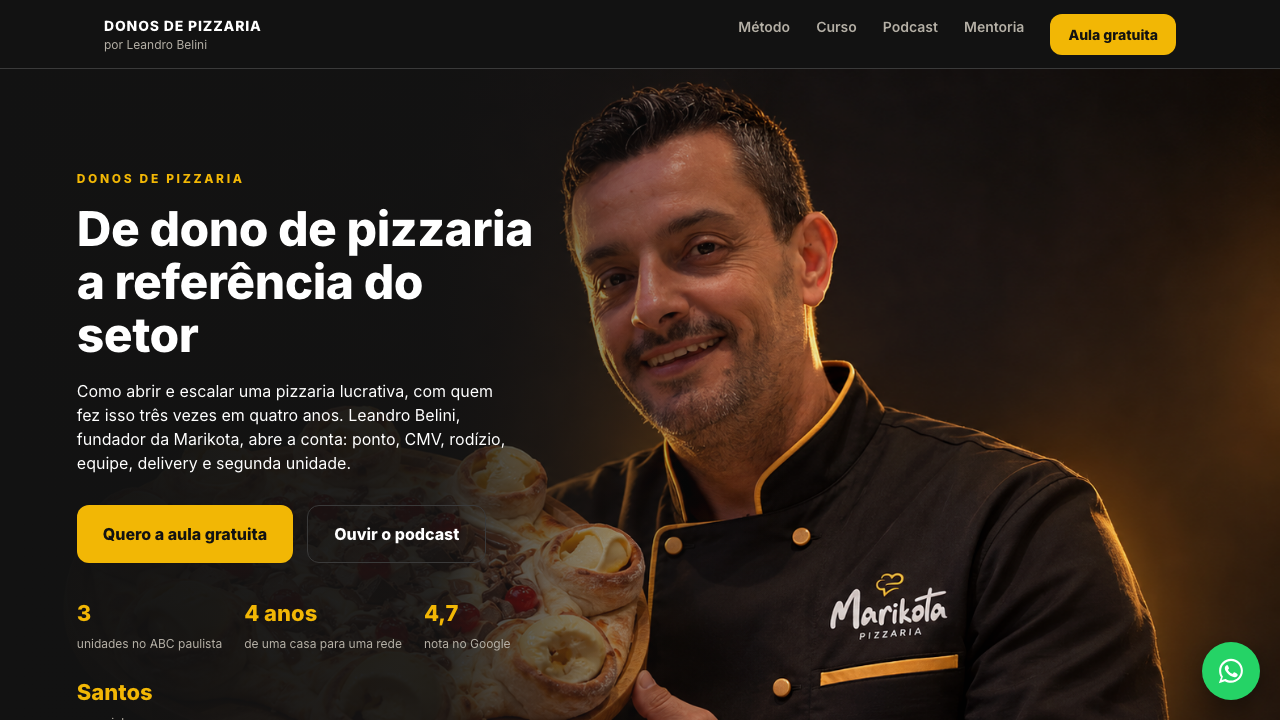
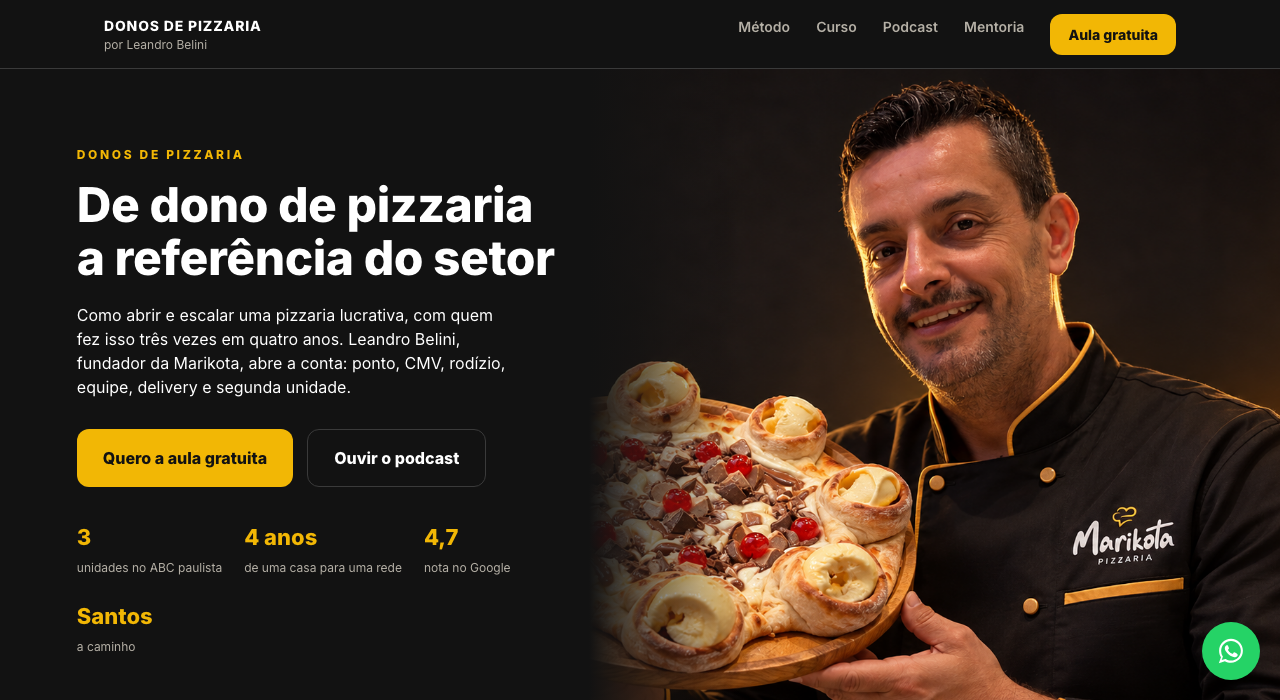
Hero em duas colunas: texto à esquerda, foto à direita sem sobreposição

diff --git a/index.html b/index.html
@@ -48,18 +48,25 @@
   @media(max-width:860px){nav ul{display:none}}
 
   /* hero */
-  .hero{position:relative;overflow:hidden;padding:0;min-height:600px;display:flex;align-items:center}
-  .hero img.bg{position:absolute;right:0;top:0;height:100%;width:auto;max-width:none;opacity:.95}
-  .hero::after{content:"";position:absolute;inset:0;background:linear-gradient(90deg,rgba(18,18,18,1) 0%,rgba(18,18,18,.92) 34%,rgba(18,18,18,.35) 50%,rgba(18,18,18,0) 62%)}
-  .hero .wrap{position:relative;z-index:1;padding-top:96px;padding-bottom:96px;max-width:none;width:100%;min-width:0;margin:0;padding-left:6vw}
-  .hero .inner{max-width:470px}
+  .hero{display:grid;grid-template-columns:minmax(0,46%) minmax(0,54%);min-height:600px;background:var(--bg)}
+  .hero .copy{display:flex;align-items:center;padding:72px 32px 72px 6vw}
+  .hero .inner{max-width:480px}
   .hero h1{margin:14px 0 18px}
   .hero p.lead{font-size:16px;color:var(--text);max-width:440px}
   .hero .cta{display:flex;gap:14px;flex-wrap:wrap;margin-top:30px}
   .hero .proof{display:flex;gap:22px;flex-wrap:wrap;margin-top:34px}
   .hero .proof b{display:block;font-size:22px;color:var(--yellow)}
   .hero .proof span{font-size:12px;color:var(--muted)}
-  @media(max-width:860px){.hero{min-height:0}.hero img.bg{right:auto;left:0;width:100%;height:100%;object-fit:cover;object-position:78% 40%}.hero .wrap{padding-left:24px}.hero::after{background:linear-gradient(180deg,rgba(18,18,18,.55),rgba(18,18,18,.96) 70%)}}
+  .hero .media{position:relative;min-height:600px;overflow:hidden}
+  .hero .media img{position:absolute;inset:0;width:100%;height:100%;object-fit:cover;object-position:62% 35%}
+  .hero .media::after{content:"";position:absolute;inset:0;background:linear-gradient(90deg,var(--bg) 0%,rgba(18,18,18,0) 22%)}
+  @media(max-width:860px){
+    .hero{grid-template-columns:1fr;min-height:0}
+    .hero .media{order:-1;min-height:0;height:380px}
+    .hero .media img{object-position:62% 25%}
+    .hero .media::after{background:linear-gradient(180deg,rgba(18,18,18,0) 60%,var(--bg) 100%)}
+    .hero .copy{padding:8px 24px 56px}
+  }
 
   /* steps */
   .steps{grid-template-columns:repeat(5,1fr)}
@@ -149,8 +156,7 @@
 </nav>
 
 <header class="hero">
-  <img class="bg" src="img/leandro-pizza.png" alt="Leandro Belini, fundador da Marikota, segurando a pizza Borda Vulcão">
-  <div class="wrap">
+  <div class="copy">
     <div class="inner">
       <span class="eyebrow">Donos de Pizzaria</span>
       <h1>De dono de pizzaria a referência do setor</h1>
@@ -166,6 +172,9 @@
         <div><b>Santos</b><span>a caminho</span></div>
       </div>
     </div>
+  </div>
+  <div class="media">
+    <img src="img/leandro-pizza.png" alt="Leandro Belini, fundador da Marikota, segurando a pizza Borda Vulcão">
   </div>
 </header>
 
